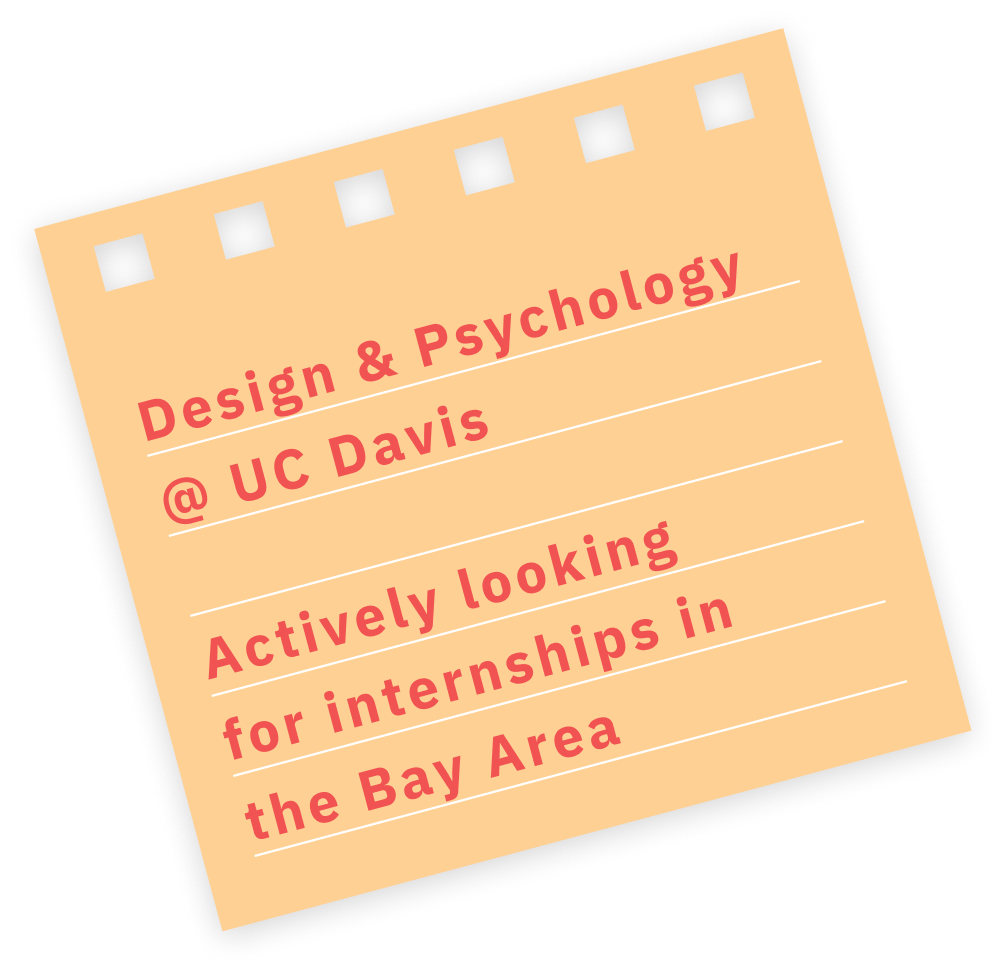
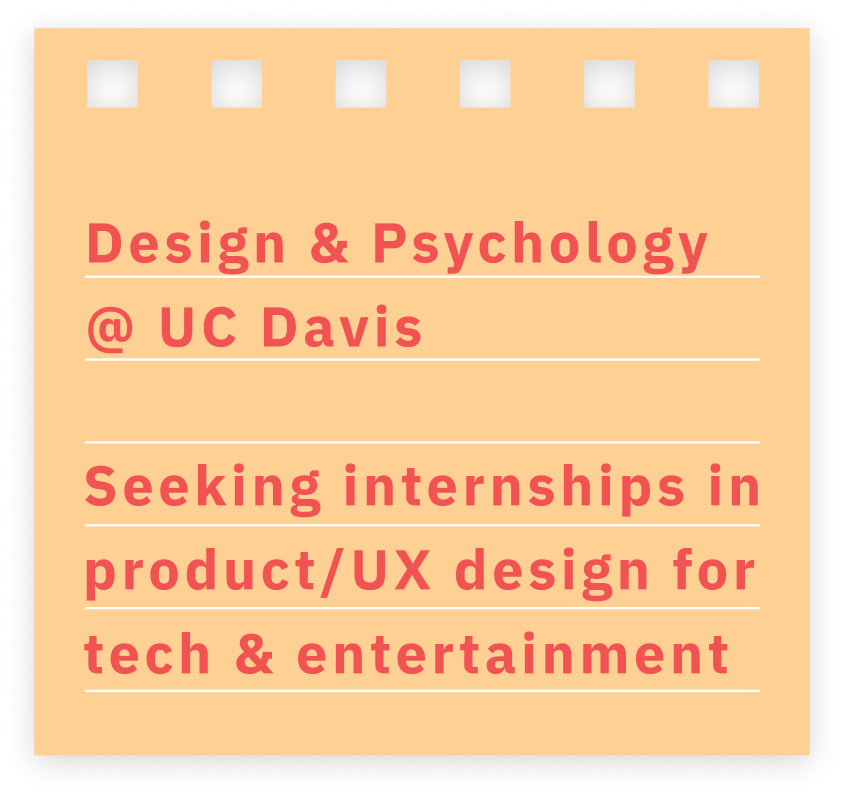
Swap in new sticky-note artwork, ease rotation for readability
The Aug 15 export included an updated sticky-note.png (upright text
layout, same copy) that got missed during that export's initial
processing -- only the alt text/rotation direction were updated at
the time, not the underlying asset. Also reduced rotation from -12deg
to -5deg per feedback that the note read as too diagonal.

diff --git a/src/components/HeroVisuals.tsx b/src/components/HeroVisuals.tsx
@@ -311,7 +311,7 @@ export default function HeroVisuals() {
             width: "39cqw",
             height: "auto",
             zIndex: 4,
-            transform: "rotate(-12deg)",
+            transform: "rotate(-5deg)",
             pointerEvents: "none",
             userSelect: "none",
             filter: "drop-shadow(0 10px 20px rgba(44,54,74,.18))",
